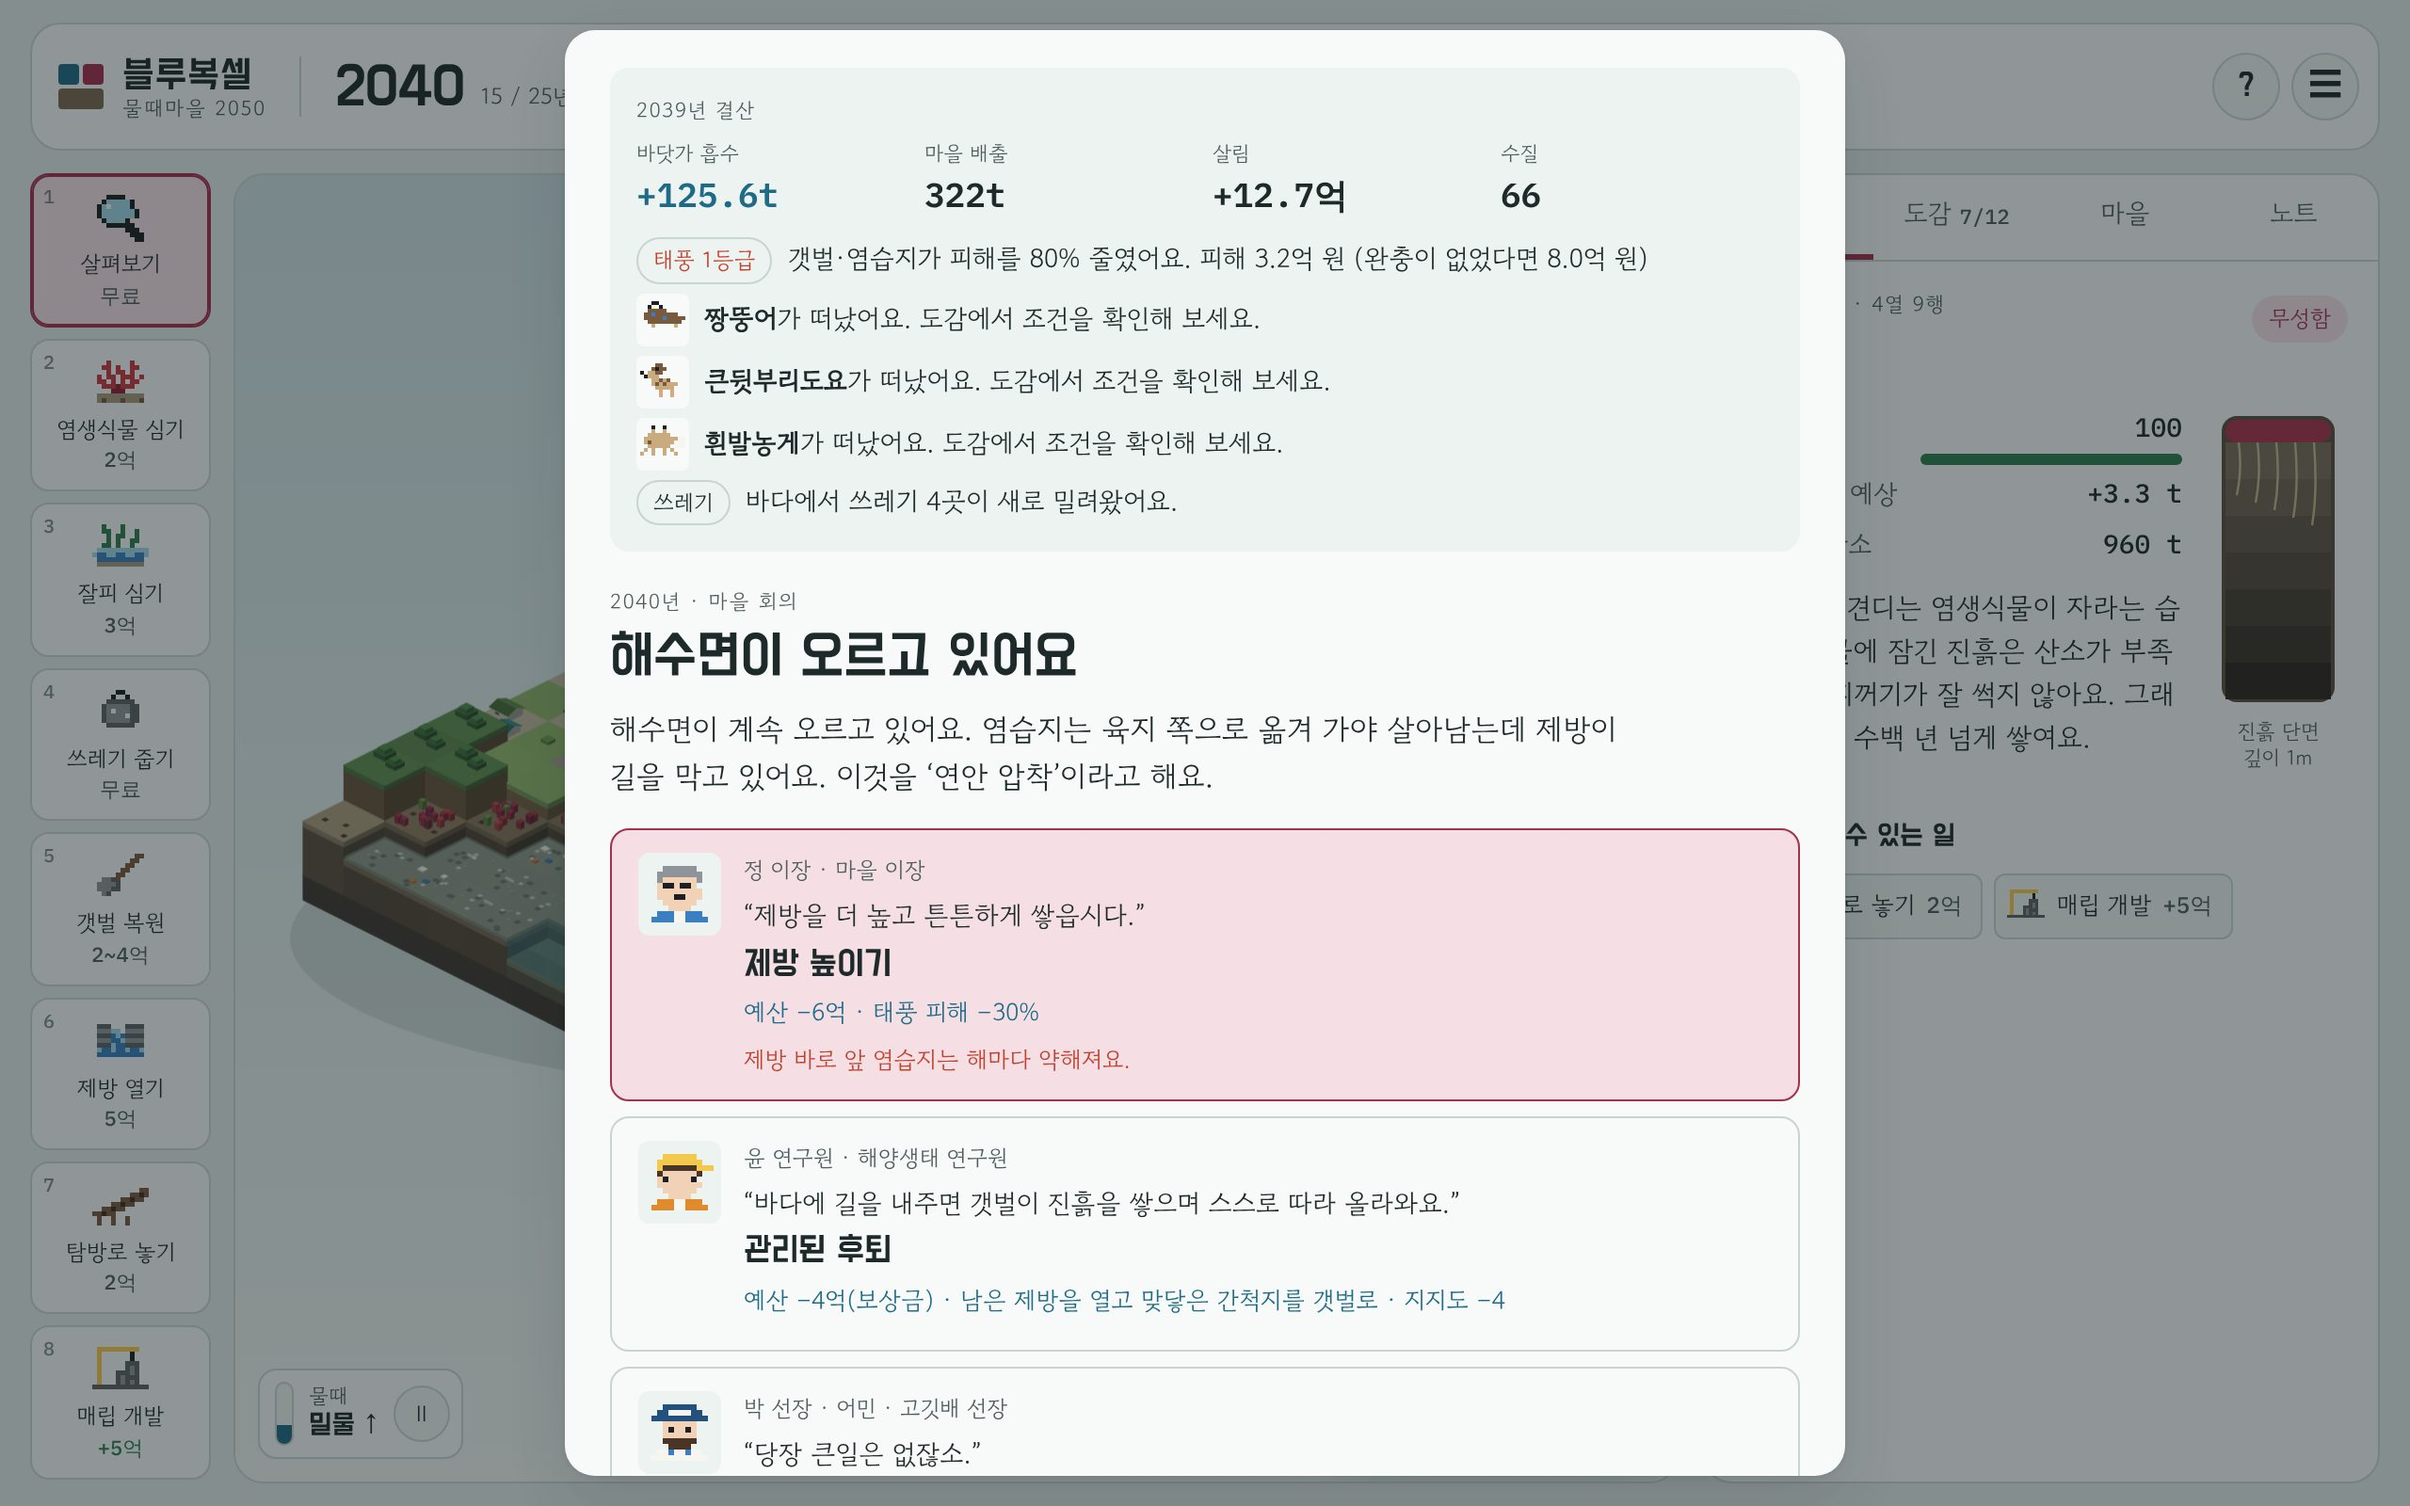
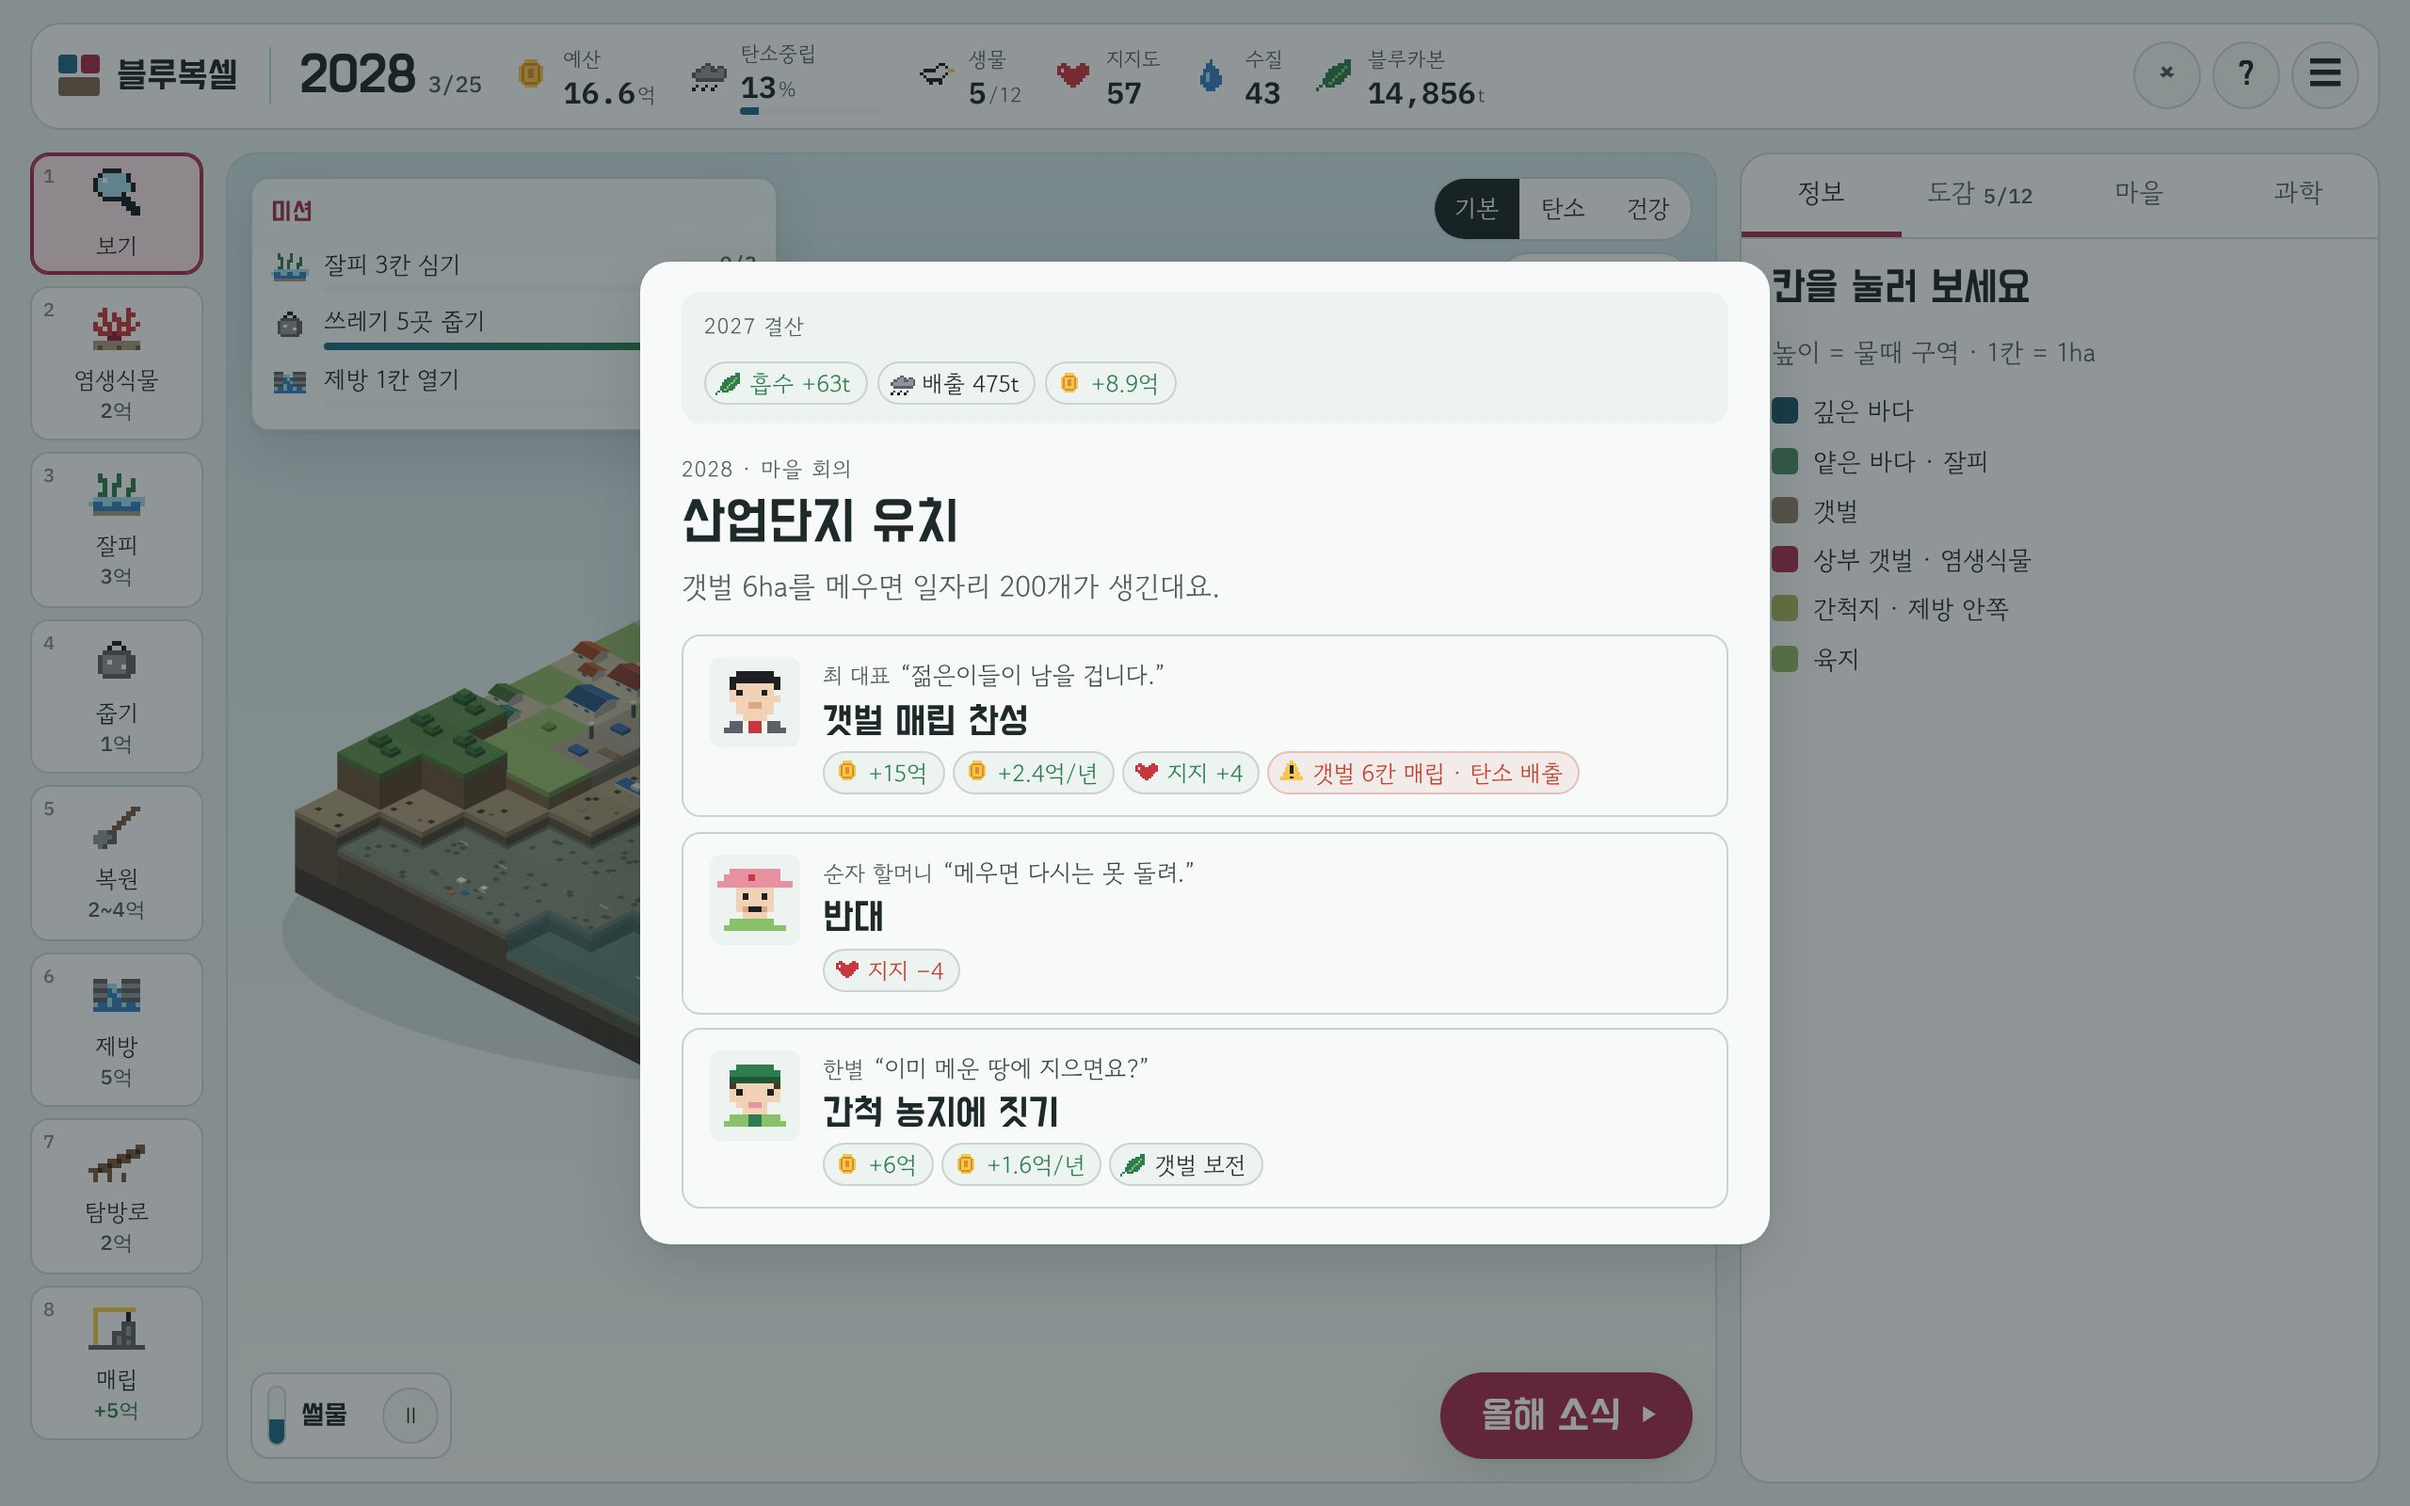
Docs for v0.2: compact README, commercial plan, design doc summary, new screenshots
Claude-Session: https://claude.ai/code/session_01HD9kvY6WHJfgxwuBWzQE45

diff --git a/README.md b/README.md
@@ -1,69 +1,39 @@
 # 블루복셀: 갯벌마을 2050
 
-서해 어촌의 갯벌을 되살리며 **블루카본**과 **생태전환**을 배우는 복셀 전략 게임 프로토타입이에요. 학생은 ‘물때마을’의 청소년 생태전환위원이 되어 2026년부터 2050년까지 25년 동안 마을의 바닷가를 설계해요.
+갯벌을 되살려 2050년 탄소중립에 도전하는 **블루카본 교육용 복셀 전략 게임**이에요.
 
-![2038년의 물때마을. 마을 앞 상부 갯벌이 붉은 염습지로 되살아나고, 제방 일부가 열려 간척지에 바닷물이 다시 들어오고 있어요.](docs/images/screenshot-desktop.jpg)
+![타이틀 화면: 살아 움직이는 갯벌 디오라마](docs/images/screenshot-title.jpg)
 
-## 바로 해 보기
-
-- **설치 없이**: `prototype/index.html`을 브라우저로 열면 돼요. 인터넷이 없어도 실행돼요(글꼴만 시스템 글꼴로 바뀌어요).
-- **파일 하나로 나눠 주기**: `npm run build` → `dist/bluevoxel.html` 한 파일을 메일·USB·학습 플랫폼으로 배포해요.
-- **웹에 올리기**: 정적 파일이라 어떤 웹 호스팅에도 그대로 올릴 수 있어요.
-
-## 어떤 게임인가요?
+## 핵심
 
 | | |
 |---|---|
-| 장르 | 턴제 생태복원 전략 + 서식지 도감 수집 + 마을 회의(선택형 서사) |
-| 대상·시간 | 중학생 중심(초5~고1), 한 판 15~25분, 수업 1~2차시 |
-| 한 해의 흐름 | 마을 소식·회의 선택 → 도구로 바닷가 바꾸기 → 연말 결산(탄소·생물·살림) |
-| 핵심 규칙 | 복셀 높이 = 물때 구역. 염생식물은 상부 갯벌에, 잘피는 얕은 바다에. 생태계는 진흙 속에 해마다 탄소를 쌓고, 메우면 쌓인 탄소가 빠져나가요. |
-| 목표 | ① 흡수: 갯벌·염습지·잘피밭 지키고 넓히기 ② 감축: 마을 배출 줄이기 ③ 공존: 생물 12종과 주민 지지 |
-| 엔딩 | 블루카본 마을 / 되살아난 갯벌, 남은 숙제 / 회색 해안 / 지켜보기만 한 바다 / 함께하지 못한 전환 / 절반의 전환 |
-| 수업 기능 | 수업 코드(같은 코드 = 같은 사건 순서), 결과 복사, 자동 저장, 엔딩별 성찰 질문 |
+| 장르 | 턴제 갯벌 복원 전략 · 생물 도감 · 마을 회의 |
+| 배움 | 진흙 속 탄소 저장, 매립하면 배출, 생태계 연결, **감축 + 흡수 = 탄소중립** |
+| 재미 | CO₂가 진흙으로 스며드는 연말 연출, 태풍 해일, 생물 등장, 미션 14 · 업적 12 · 난이도 3, 효과음·음악 |
+| 수업 | 수업 코드(같은 사건), 결과 코드 → 교사용 학급 리포트, 엔딩별 토론 질문 |
+| 환경 | 설치·로그인·개인정보 수집 없음, 오프라인 한 파일, PC·크롬북·태블릿·휴대폰 |
 
-<img src="docs/images/screenshot-council.jpg" alt="2040년 마을 회의: 해수면 상승에 제방을 높일지, 관리된 후퇴를 할지 고르는 화면" width="640"> <img src="docs/images/screenshot-mobile.jpg" alt="휴대폰 화면: 지도, 4×2 도구, 선택한 칸 요약" width="180">
+<img src="docs/images/screenshot-typhoon.jpg" alt="초강력 태풍: 해일이 갯벌을 덮고 마을 앞 염습지가 피해를 80% 줄여요" width="560"> <img src="docs/images/screenshot-mobile.jpg" alt="휴대폰 화면" width="150">
 
-## 왜 이런 게임인가요?
+## 실행
 
-2025~2026년 흥행작(Pokémon Pokopia, Grow a Garden, Subnautica 2, Dave the Diver, Slay the Spire 2 등)을 분석해 보니, **서식지를 가꾸면 생물이 돌아오는 코지 루프**, **바다 소재**, **짧은 판과 시너지 발견**이 공통점이었어요. 블루카본의 이야기(되살리면 시간이 지나 탄소가 쌓이고 생물이 돌아온다)가 이 구조와 그대로 겹쳐서, 퀴즈를 덧붙이지 않고 **규칙 자체가 개념을 가르치는** 턴제 복원 전략 게임으로 정했어요. 자세한 근거는 문서에 있어요.
+- `prototype/index.html`을 브라우저로 열어요.
+- `npm run build` → `dist/bluevoxel.html` 한 파일로 나눠 줄 수 있어요.
 
 ## 문서
 
-- [01. 최근 상위 게임 분석과 장르 결정](docs/01-trend-analysis.md)
-- [02. 게임 기획서](docs/02-game-design.md): 교육 목표, 개념↔규칙 매핑, 시스템 수치, 밸런스 검증, 과학적 근거와 단순화, 로드맵
-- [03. 수업 활용 가이드](docs/03-classroom-guide.md): 2차시 수업안, 디브리핑 질문, 오개념 바로잡기, 활동지, 평가 루브릭
-
-## 폴더 구조
-
-```text
-prototype/
-  index.html        게임 화면
-  css/style.css     디자인 토큰(밝은·어두운 테마), 반응형 레이아웃
-  js/data.js        지도, 타일, 도구, 생물 도감, 회의 카드, 엔딩, 과학 노트, 픽셀 스프라이트
-  js/sim.js         시뮬레이션(탄소·수질·생물·경제·태풍), DOM 없이 Node에서도 실행
-  js/render.js      아이소메트릭 복셀 렌더러(Canvas 2D, 밀물·썰물, 생물 움직임, 효과)
-  js/ui.js          HUD, 도구, 현장 노트, 회의·결산·엔딩 화면
-  js/main.js        입력(터치·마우스·키보드), 한 해 흐름, 튜토리얼, 저장
-tests/              게임 로직 테스트와 자동 플레이 도구
-tools/              밸런스 점검, 단일 HTML 빌드
-docs/               분석·기획·수업 문서와 화면 이미지
-```
+| 문서 | 내용 |
+|---|---|
+| [01 상위 게임 분석](docs/01-trend-analysis.md) | 2025~2026 흥행작 분석 → 장르 결정 |
+| [02 게임 기획서](docs/02-game-design.md) | 교육 목표, 규칙과 수치, 밸런스 |
+| [03 수업 가이드](docs/03-classroom-guide.md) | 2차시 수업안, 토론 질문, 활동지 |
+| [04 상용화 계획](docs/04-commercial-plan.md) | 고객, 차별점, 출시 체크리스트 |
 
 ## 개발
 
-Node 18 이상이 필요해요. 외부 패키지는 쓰지 않아요.
-
 ```bash
-npm test            # 게임 로직 테스트 10개
-npm run balance     # 전략 7가지로 2050년까지 자동 플레이한 결과 표
-npm run build       # dist/bluevoxel.html 한 파일로 묶기
+npm test          # 게임 로직 테스트
+npm run balance   # 전략별 자동 플레이 결과
+npm run build     # 한 파일 빌드
 ```
-
-수치(흡수 속도, 비용, 생물 조건, 회의 카드)는 `prototype/js/data.js`와 `prototype/js/sim.js`에 모여 있어요. 숫자를 바꾼 뒤 `npm run balance`로 엔딩 분포가 의도대로인지 확인하세요. 현재 기준은 “복원만 하면 약 78%, 에너지 전환만 하면 약 33%, 둘 다 하면 100% 이상”이에요.
-
-## 현재 상태와 다음 단계
-
-v0.1 플레이 가능한 프로토타입이에요. 다음 단계로 학생 플레이테스트와 밸런스 조정, 사운드, 교사용 결과 모아 보기, 두 번째 지도(바다숲·갯녹음)를 계획하고 있어요. 자세한 로드맵은 [기획서 14절](docs/02-game-design.md#14-로드맵)에 있어요.
-
-게임 속 사건은 실제 연구와 정책을 바탕으로 만든 가상 시나리오이고, 마을 배출량·예산·생물 조건 같은 숫자는 배우기 쉽게 단순화한 값이에요.

diff --git a/docs/04-commercial-plan.md b/docs/04-commercial-plan.md
@@ -1,0 +1,52 @@
+# 04. 상용화 계획
+
+> 학교와 기관이 바로 쓰는 블루카본 교육 게임. 설치·로그인·개인정보 수집 없이 수업 한 차시에 한 판이 끝나요.
+
+## 누가 사나요
+
+| 고객 | 쓰는 곳 | 상품 | 가격 모델 (예시) |
+|---|---|---|---|
+| 학교·교육청 | 과학·사회·환경 수업, 창의적 체험활동 | 학교 라이선스 + 수업 자료 | 학교당 연간 구독 |
+| 해양 기관·지자체 | 갯벌센터, 해양 전시관, 체험관 | 전시용 관람객 모드(키오스크) | 설치당 + 유지보수 |
+| 기업 ESG | 블루카본 복원 사업 홍보, 임직원 교육 | 맞춤 시나리오(지역·사업 반영) | 프로젝트 단위 |
+| 해외 | 맹그로브·염습지 교육 | 현지화 지도·언어 | 국가별 라이선스 |
+| 개인 | 가족·학생 | 앱·PC 단품 (광고·확률형 아이템 없음) | 1회 구매 |
+
+## 차별점
+
+- **규칙이 곧 과학**: 퀴즈 대신 진흙 속 탄소, 매립 배출, 생태계 연결을 직접 겪어요.
+- **한국 갯벌에 맞춤**: 세계유산 갯벌 지역과 블루카본 정책 이야기에 바로 연결돼요.
+- **수업에 맞춤**: 수업 코드, 결과 코드로 모으는 학급 리포트, 엔딩별 토론 질문, 수업안.
+- **어디서나**: 의존성 없는 웹 약 200KB, 오프라인 한 파일, 저사양 자동 조절.
+- **안전**: 개인정보 수집 없음, 광고·결제 유도 없음, 음원도 자체 합성.
+
+## 지금 상태 (v0.2)
+
+| 영역 | 내용 |
+|---|---|
+| 게임 | 25년 캠페인, 난이도 3, 미션 14, 업적 12, 엔딩 6, 생물 12종 |
+| 연출 | CO₂ 흡수, 태풍 해일, 생물 등장, 칸 반응 이펙트, 효과음·파도·음악 |
+| 수업 | 수업 코드, 결과 코드, 교사용 학급 리포트(엔딩 분포·회의 선택 비율·CSV) |
+| 품질 | 자동 테스트 14개, 전략별 밸런스 점검, PC·휴대폰·다크 모드 확인 |
+
+## 출시 전 체크리스트
+
+- [ ] 해양생태·탄소 전문가 감수 (수치, 용어, 생물 정보)
+- [ ] 학생 플레이테스트 3회 + 사전·사후 개념 검사
+- [ ] 접근성 점검 (키보드, 색 대비, 화면 낭독)
+- [ ] 보급형 크롬북·태블릿 성능 (30fps 이상)
+- [ ] 글꼴·음원 권리 확인 (글꼴 OFL, 음원 자체 합성)
+- [ ] 배포: 학교망에서 열리는 주소 + 오프라인 패키지
+- [ ] 교사 안내 1쪽 + 10분 연수 영상
+
+## 로드맵
+
+| 단계 | 내용 |
+|---|---|
+| v0.3 | 플레이테스트 반영 밸런스, 튜토리얼·사운드 다듬기 |
+| v0.5 | 두 번째 지도(바다숲·갯녹음), 모둠 역할 모드, 영어 |
+| v1.0 | 온라인 교사 대시보드, 학교 플랫폼 연동, 전시용 모드 |
+
+## 성과 지표
+
+수업 완주율 · 사후 개념 이해도 향상 · 교사 재사용률 · 도입 학교 수

diff --git a/docs/02-game-design.md b/docs/02-game-design.md
@@ -1,6 +1,18 @@
 # 02. 게임 기획서 — 블루복셀: 갯벌마을 2050
 
-> 버전 0.1 (플레이 가능한 프로토타입) · 이 문서의 수치는 `prototype/js/data.js`, `prototype/js/sim.js`와 같습니다.
+> 버전 0.2 · 이 문서의 수치는 `prototype/js/data.js`, `prototype/js/sim.js`와 같습니다.
+
+## v0.2에서 바뀐 점
+
+| 영역 | 내용 |
+|---|---|
+| 글 줄이기 | 회의 카드는 한 줄 상황 + 선택지 + 아이콘 칩(예산·지지·배출·수질·경고). 설명은 눌렀을 때만 |
+| 이펙트 | 칸 반응(튀어오름·자라남·물 차오름), 링·빛 파티클, 연말 CO₂ 흡수 연출, 태풍 해일·번개·염습지 방패, 열파, 생물 등장 카드, 카메라 이동, 갈매기·물고기·돛단배·구름 그림자 |
+| 소리 | 음원 없이 합성한 효과음, 파도 소리, 배경 음악 (설정에서 끄기) |
+| 진행 | 타이틀 데모, 난이도 3(쉬움·보통·도전), 미션 14개(3개씩, 보상), 업적 12개, 최고 기록 |
+| 수업 | 결과 코드(BV1-…) → 교사용 학급 리포트(엔딩 분포, 주요 회의 선택 비율, CSV 복사) |
+| 밸런스 | 미션 보상 포함: 복원만 80% · 감축만 33% · 둘 다 131% · 보통 학생 약 100% |
+
 
 ## 0. 한눈에 보기
 
